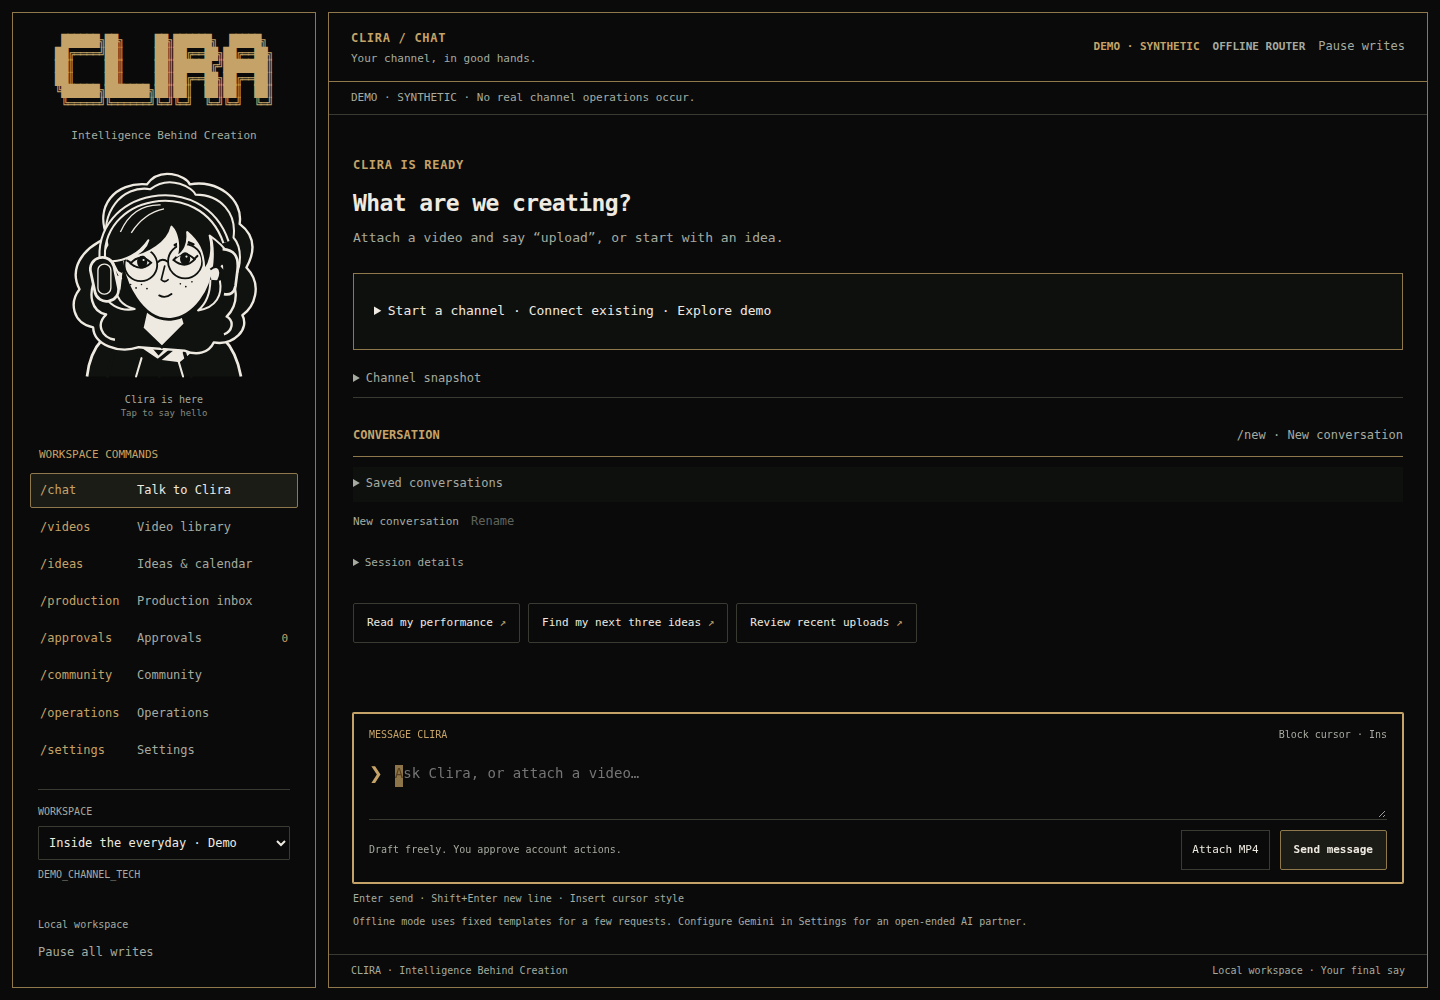
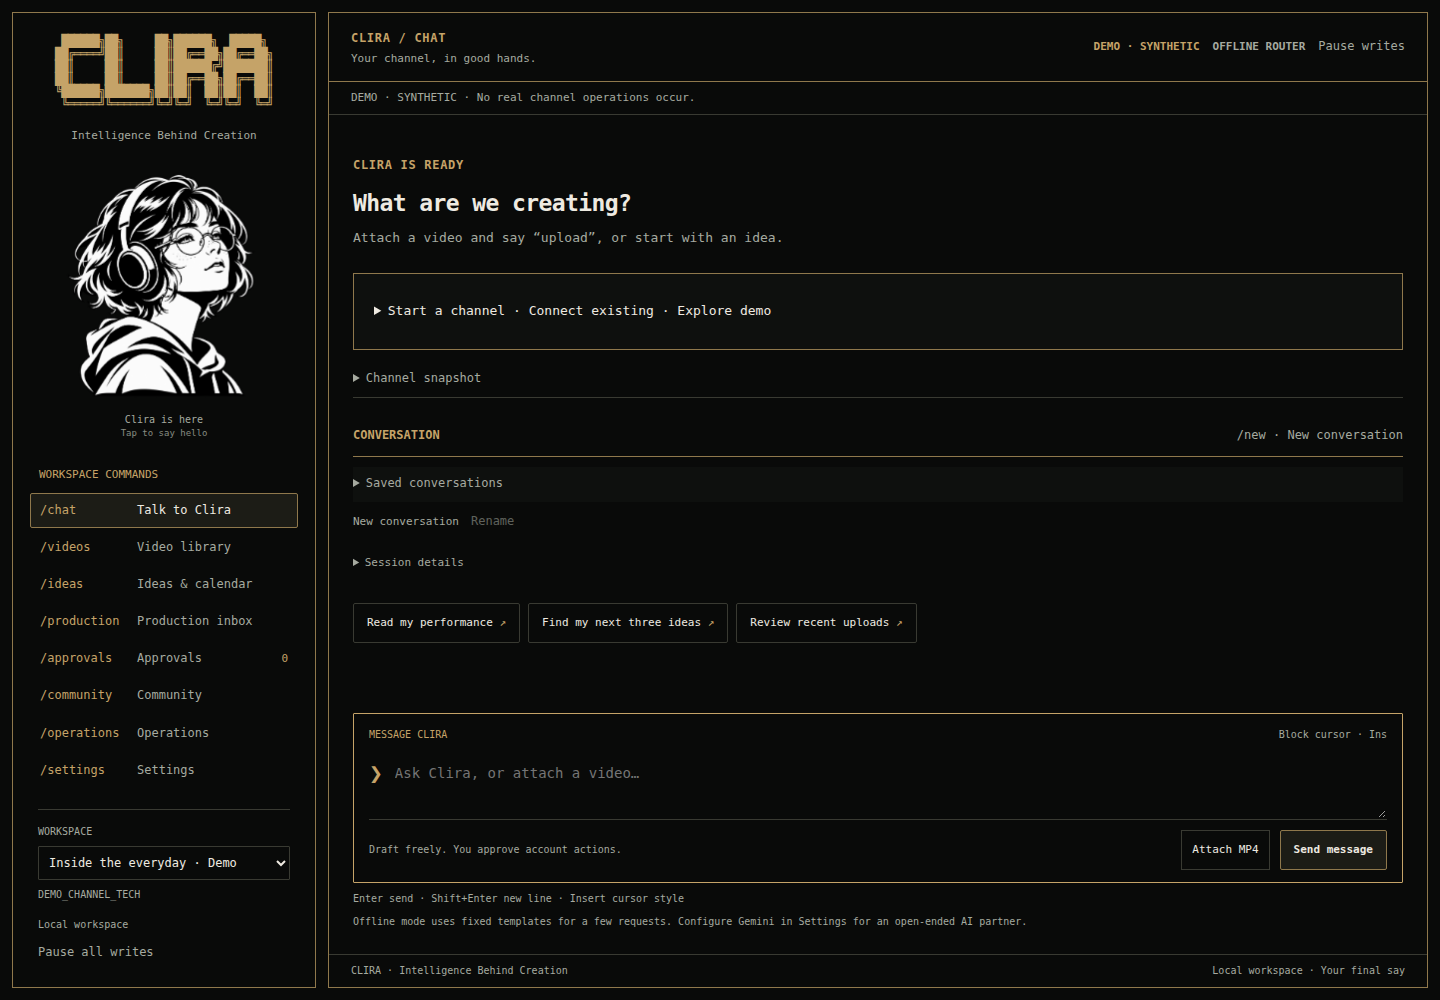
Refresh Clira branding and README with animated character demos
Use a borderless black-background character logo, refresh web icons and wordmark, and lead the README with current character and workspace GIFs. Preserve technical guidance, distinguish local presentation fixtures from offline app capture, and include static alternatives and reproducible media authoring.

diff --git a/clira/web/index.html b/clira/web/index.html
@@ -3,8 +3,8 @@
 <head>
   <meta charset="utf-8"><meta name="viewport" content="width=device-width,initial-scale=1">
   <meta name="theme-color" content="#090a09"><title>Clira · Intelligence Behind Creation</title>
-  <link rel="icon" type="image/png" href="/static/assets/clira-portrait.png">
-  <link rel="apple-touch-icon" href="/static/assets/clira-portrait.png">
+  <link rel="icon" type="image/png" href="/static/assets/clira-icon.png">
+  <link rel="apple-touch-icon" href="/static/assets/clira-logo-black.png">
   <link rel="stylesheet" href="/static/style.css"><link rel="stylesheet" href="/static/character.css"><script src="/static/character.js" defer></script><script src="/static/app.js" defer></script>
 </head>
 <body>

diff --git a/scripts/make_character_readme_media.py b/scripts/make_character_readme_media.py
@@ -1,0 +1,146 @@
+"""Capture the shipped local character controller and encode a compact README GIF."""
+
+import argparse
+import math
+import subprocess
+from pathlib import Path
+from urllib.parse import urlsplit
+
+from playwright.sync_api import sync_playwright
+
+ROOT = Path(__file__).resolve().parents[1]
+
+
+def main():
+    parser = argparse.ArgumentParser(description=__doc__)
+    parser.add_argument("--output", type=Path, default=ROOT / "docs/media/character")
+    args = parser.parse_args()
+    output = args.output.resolve()
+    output.mkdir(parents=True, exist_ok=True)
+    html = """<!doctype html><html><head><meta charset="utf-8">
+    <link rel="stylesheet" href="/static/character.css"><style>
+    :root{--gold:#c4a466;--muted:#b4b1a8;color-scheme:dark}
+    *{box-sizing:border-box}body{margin:0;background:#000;color:#eeeae1;font:12px monospace;
+    width:420px;height:510px;padding:25px 24px 15px;text-align:center;overflow:hidden}
+    h1{font-size:22px;font-weight:600;letter-spacing:8px;margin:0 0 9px;padding-left:8px;color:var(--gold)}
+    .tagline{font-size:10px;color:var(--muted);margin:0 0 16px}
+    #characterInteract{height:350px;max-width:350px;border:0;cursor:pointer}
+    #characterInteract:focus-visible{outline:0}.character-caption{margin:8px 0 0;min-height:18px}
+    #characterStatus{font-size:11px}#gesture{height:18px;color:var(--gold);margin:12px 0 6px;font-size:11px}
+    .foot{color:#817e76;font-size:9px;margin:0}#cursor{pointer-events:none;position:fixed;top:0;left:0;
+    width:9px;height:12px;background:#c4a466;clip-path:polygon(0 0,0 100%,32% 70%,65% 100%,85% 86%,52% 56%,100% 50%);
+    z-index:4;transform:translate(-30px,-30px)}#cursor.down{background:white}
+    </style><script defer src="/static/character.js"></script></head><body>
+    <h1>CLIRA</h1><p class="tagline">Intelligence Behind Creation</p>
+    <div id="cliraCharacter" class="character" data-motion="off" data-state="idle">
+    <button id="characterInteract" type="button" aria-label="Say hello to Clira" aria-describedby="characterStatus">
+    <span id="characterArtwork" aria-hidden="true"></span>
+    <span id="characterFallback"><img src="/static/assets/character-v2/neutral.webp" alt=""></span></button>
+    <div class="character-caption"><span id="characterStatus">Clira is here</span></div></div>
+    <p id="gesture">A quiet creative companion</p><p class="foot">Character preview · local presentation events</p>
+    <select id="characterMotion" hidden><option value="full">Full</option></select><span id="cursor"></span>
+    <script>document.addEventListener('pointermove',e=>{document.querySelector('#cursor').style.transform=
+    `translate(${e.clientX}px,${e.clientY}px)`});document.addEventListener('pointerdown',()=>document.querySelector('#cursor').classList.add('down'));
+    document.addEventListener('pointerup',()=>document.querySelector('#cursor').classList.remove('down'));</script>
+    </body></html>"""
+    with sync_playwright() as p:
+        browser = p.chromium.launch()
+        context = browser.new_context(
+            viewport={"width": 420, "height": 510},
+            reduced_motion="no-preference",
+            record_video_dir=str(output / "capture"),
+            record_video_size={"width": 420, "height": 510},
+        )
+        page = context.new_page()
+        errors = []
+        page.on("pageerror", lambda error: errors.append(str(error)))
+
+        def route_local(route):
+            path = urlsplit(route.request.url).path
+            if path == "/":
+                route.fulfill(body=html, content_type="text/html")
+                return
+            if not path.startswith("/static/"):
+                route.abort()
+                return
+            source = (ROOT / "clira/web" / path.removeprefix("/static/")).resolve()
+            if not source.is_relative_to(ROOT / "clira/web") or not source.is_file():
+                route.abort()
+                return
+            route.fulfill(path=str(source))
+
+        page.route("**/*", route_local)
+        page.goto("http://clira-media.test/")
+        page.wait_for_function("document.querySelector('#cliraCharacter').dataset.ready==='true'")
+        button = page.locator("#characterInteract")
+
+        def caption(text):
+            page.locator("#gesture").evaluate("(n,text)=>n.textContent=text", text)
+
+        page.wait_for_timeout(900)
+        caption("Hover → quietly curious")
+        button.hover()
+        page.wait_for_function("cliraCharacter.expression==='curious'")
+        page.wait_for_timeout(1000)
+        caption("One click → a little smile")
+        button.click()
+        page.wait_for_function("cliraCharacter.expression==='happy'")
+        page.wait_for_timeout(1500)
+        caption("Double click → quiet delight")
+        button.dblclick(delay=75)
+        page.wait_for_function("cliraCharacter.expression==='celebrating'")
+        page.wait_for_timeout(1850)
+        caption("Circle the pointer → a little dizzy")
+        rect = button.bounding_box()
+        for i in range(49):
+            angle = i * 2 * math.pi / 48
+            page.mouse.move(
+                rect["x"] + rect["width"] / 2 + 114 * math.cos(angle),
+                rect["y"] + rect["height"] / 2 + 114 * math.sin(angle),
+            )
+        page.wait_for_function("cliraCharacter.expression==='dizzy'")
+        page.wait_for_timeout(1850)
+        page.mouse.move(415, 508)
+        caption("A video attached → interest")
+        page.evaluate("cliraCharacter.emit('attached')")
+        page.wait_for_function("cliraCharacter.expression==='surprised'")
+        page.wait_for_timeout(1700)
+        caption("A chat request → thinking")
+        page.evaluate("cliraCharacter.emit('request:start',{id:'readme-preview',kind:'thinking'})")
+        page.wait_for_function("cliraCharacter.expression==='thinking'")
+        page.wait_for_timeout(2100)
+        caption("An error → concern, not false success")
+        page.evaluate("cliraCharacter.emit('request:end',{id:'readme-preview'});cliraCharacter.emit('error')")
+        page.wait_for_function("cliraCharacter.expression==='concerned'")
+        page.wait_for_timeout(1700)
+        caption("Back to her calm self")
+        page.evaluate("cliraCharacter.emit('context')")
+        page.wait_for_function("cliraCharacter.expression==='neutral'")
+        page.wait_for_timeout(1200)
+        page.screenshot(path=str(output / "character-poster.png"))
+        assert not errors, errors
+        video = page.video
+        context.close()
+        video.save_as(str(output / "clira-character.webm"))
+        browser.close()
+    subprocess.run(
+        [
+            "ffmpeg",
+            "-v",
+            "error",
+            "-i",
+            str(output / "clira-character.webm"),
+            "-filter_complex",
+            "fps=8,scale=360:-1:flags=lanczos,split[a][b];[a]palettegen=max_colors=48:stats_mode=full[p];[b][p]paletteuse=dither=none:diff_mode=rectangle",
+            "-loop",
+            "0",
+            "-y",
+            str(output / "clira-character.gif"),
+        ],
+        check=True,
+    )
+    print(output / "clira-character.gif")
+
+
+if __name__ == "__main__":
+    main()

diff --git a/README.md b/README.md
@@ -1,9 +1,9 @@
 <p align="center">
-  <img src="clira/web/assets/clira-portrait.png" alt="Clira — glasses, headphones, and a thoughtful creative partner" width="180">
+  <img src="clira/web/assets/clira-logo-black.png" alt="Clira — borderless monochrome character logo on black" width="140">
 </p>
 
 <p align="center">
-  <img src="docs/media/clira-banner.svg" alt="Clira — Storytelling meets strategic wisdom" width="100%">
+  <img src="docs/media/clira-banner.svg" alt="CLIRA — Intelligence Behind Creation" width="600">
 </p>
 
 <p align="center">
@@ -13,7 +13,7 @@
 </p>
 
 <p align="center">
-  <a href="https://github.com/Gurtejhundal/Clira/releases/tag/v0.1.0"><img src="https://img.shields.io/badge/preview-v0.1.0-a18b4e?style=flat-square" alt="Preview v0.1.0"></a>
+  <a href="docs/VERIFICATION_V1_RC.md"><img src="https://img.shields.io/badge/candidate-1.0.0rc1-c4a466?style=flat-square" alt="Local candidate 1.0.0rc1; not a stable release"></a>
   <img src="https://img.shields.io/badge/Python-3.12%2B-617851?style=flat-square" alt="Python 3.12 or later">
   <a href="https://github.com/Gurtejhundal/Clira/actions/workflows/release.yml"><img src="https://github.com/Gurtejhundal/Clira/actions/workflows/release.yml/badge.svg" alt="Verify and release"></a>
   <img src="https://img.shields.io/badge/Local_first-SQLite-303a2c?style=flat-square" alt="Local first with SQLite">
@@ -23,13 +23,45 @@
   <a href="#run">Get started</a> ·
   <a href="#see-clira-in-action">Watch the demos</a> ·
   <a href="docs/SETUP.md">Connect YouTube</a> ·
-  <a href="https://github.com/Gurtejhundal/Clira/releases/tag/v0.1.0">Download v0.1.0</a> ·
+  <a href="docs/LIVE_CHARACTER.md">Meet Clira</a> ·
   <a href="docs/PRODUCT_ANALYSIS.md">Product & architecture</a>
 </p>
 
-> **First public MVP preview.** Explore immediately with synthetic demo data and a limited offline
-> command router. Real AI needs your configured Gemini account; real channel operations need Google
-> OAuth and owner approval. New upload automation is tested with simulations; rendering stays external.
+> **Local release candidate.** Explore with synthetic demo data. Open-ended AI needs your Gemini
+> configuration; YouTube operations need OAuth and exact owner approval. Stable v1.0.0 is not released.
+
+## Meet Clira
+
+A quiet creative partner with a little personality. The original portrait comes alive through eight
+restrained expressions, natural blinks, subtle gaze and tiny head movements.
+
+<p align="center">
+  <img src="docs/media/character/clira-character.gif" width="360" alt="Clira character animation: hover makes her curious, a single click brings a small smile, double-click brings delight, circling the pointer makes her dizzy, chat brings a thinking expression, and errors bring concern.">
+</p>
+
+<p align="center">
+  <strong>Hover to catch her attention. Click to say hello.</strong><br>
+  Double-click for delight. Circle the pointer for a little dizziness.<br>
+  <a href="docs/media/character/character-poster.png">Static portrait</a> ·
+  <a href="docs/LIVE_CHARACTER.md">Expressions & controls</a> ·
+  <a href="clira/web/assets/clira-logo-black.png">Black-background logo</a> ·
+  <a href="clira/web/assets/clira-logo.png">Transparent alternative</a>
+</p>
+
+The GIF runs the shipped character controller with local presentation events. It is a character
+preview, not an account operation. In the website, real chat, attachment, preview, review and error
+states drive the same reactions. Touch and keyboard work too. **Full / Reduced / Off** motion settings
+respect the operating system's reduced-motion preference. The terminal keeps its Braille portrait.
+
+## See Clira in action
+
+<p align="center">
+  <img src="docs/media/character/clira-workspace.gif" width="960" alt="Recorded Clira website: the detailed character reacts to hover, clicks and circular pointer movement, then a real offline demo chat shows synthetic latest uploads.">
+</p>
+
+A continuous browser recording of the current website, using the actual offline demo backend.
+The channel and replies are synthetic; no Google model call or YouTube write is shown.
+[Static workspace](docs/media/web/terminal-workspace.png) · [Capture details](docs/media/README.md).
 
 ## Terminal-style web workspace
 
@@ -38,19 +70,14 @@ frames, a faithful monochrome portrait, CLIRA wordmark, monospace controls and a
 You can select and copy answers, use slash navigation, attach a video and review its upload in chat.
 The interactive terminal remains optional; it does not have to run alongside the website.
 
-Clira's image-backed SVG companion preserves the original detailed artwork with eight expressions.
-It blinks, follows nearby pointer movement, distinguishes single and
-double clicks, reacts to circular gestures, and responds to real chat/upload/review states.
-**Character motion: Full / Reduced / Off** is available in Settings and honors reduced motion.
-The original portrait assets are preserved. [Character behavior and event hooks](docs/LIVE_CHARACTER.md).
+The gold frames, centered identity and command navigation remain consistent across desktop and
+mobile. [Character behavior](docs/LIVE_CHARACTER.md) · [Logo and artwork provenance](docs/brand/CHARACTER_V2_ART.md).
 
 ```bash
 ./run.sh --mode live serve         # open http://127.0.0.1:8765 in your browser
 # Or explore without credentials:
 ./run.sh --mode demo serve
 ```
-
-![Clira terminal-style web workspace, showing synthetic demo data](docs/media/web/terminal-workspace.png)
 
 [Web workspace & keyboard controls](docs/WEB_WORKSPACE.md) · [Chat upload flow and limits](docs/CHAT_UPLOAD.md)
 
@@ -120,7 +147,10 @@ For the original scrolling layout: `CLIRA_TERMINAL_LAYOUT=inline uv run --locked
 [Desktop](docs/media/v1/clira-chat-1440.png) · [Mobile](docs/media/v1/clira-chat-390.png) ·
 [Local launch at 320px](docs/media/v1/clira-launch-320.png) · [Terminal capture](docs/media/v1/Clira-terminal-rc.txt)
 
-## v0.1.0 historical preview videos
+<details>
+<summary>Earlier v0.1.0 tours and CLI walkthrough</summary>
+
+### v0.1.0 historical preview videos
 
 <p align="center">
   <img src="docs/media/clira-preview.gif" width="800" alt="Animated Clira demo: desktop performance workspace, mobile channel conversation, and completed private-upload simulation with a durable receipt">
@@ -134,6 +164,8 @@ For the original scrolling layout: `CLIRA_TERMINAL_LAYOUT=inline uv run --locked
 The product tour uses real captured **synthetic-demo screens** with a guided pan/scroll presentation.
 The CLI walkthrough uses actual command-output excerpts. Both are silent with on-screen explanations.
 [Transcript, original captures and media details →](docs/media/README.md)
+
+</details>
 
 ## A creator workflow, held together
 
@@ -289,12 +321,13 @@ See [verification evidence](docs/VERIFICATION.md) and [the product analysis](doc
 
 ## Limits and remaining work
 
-The live-channel MVP gate is **not yet verified**. No OAuth client or Gemini key was configured in
-the inspected environment. Live thumbnail/caption acceptance and playback remain unverified. Retention/cohort diagnostics, external-renderer
+An owner-authorized authenticated read and private demo upload are recorded in the verification
+notes. Full production readiness is not established: the new chat upload path has simulation coverage,
+and live model quality plus thumbnail/caption acceptance and playback remain unverified. Retention/cohort diagnostics, external-renderer
 execution, automatic fact verification and hosted/team access are not implemented. Script evidence
 links remain unverified; public search results are examples, not trend proof. Semantic duplicate
 detection currently uses normalized title similarity, not embeddings. UI reads are capped to recent
 items; complete-history pagination is a future improvement. Nothing in this release guarantees
 growth, licensing clearance, or replacement of human creative judgment.
 
-The original 21-file build pack is preserved under `mds/Clira_Agent_Architecture_Build_Pack/Clira/`.
+The [original 21-file build pack](mds/Clira_Agent_Architecture_Build_Pack/Clira/) is preserved in the repository.

diff --git a/docs/brand/LOGO_AND_README_MEDIA.md b/docs/brand/LOGO_AND_README_MEDIA.md
@@ -1,0 +1,60 @@
+# Borderless logo and animated README
+
+The logo retains Clira's approved character identity: short irregular hair, fine round glasses,
+large headphones and a hoodie. No enclosing border, badge or decorative circle is added.
+
+| Asset | Format and dimensions | Use |
+| --- | --- | --- |
+| `clira/web/assets/clira-logo.png` | 512 × 512 RGBA PNG | Optional transparent logo download |
+| `clira/web/assets/clira-logo-black.png` | 512 × 512 RGB PNG | Default borderless logo on solid black; README and touch icon |
+| `clira/web/assets/clira-icon.png` | 96 × 96 RGB PNG | Small browser favicon |
+| `docs/media/clira-banner.svg` | 1200 × 230 SVG | Borderless gold wordmark and current tagline |
+| `docs/media/character/clira-character.gif` | 360 × 437, 133 frames, ~16.6 seconds | Character reactions, ~2.84 MB |
+| `docs/media/character/clira-workspace.gif` | 960 × 675, 104 frames, 10.4 seconds | Actual offline website recording, ~2.70 MB |
+| `docs/media/character/character-poster.png` | 420 × 510 PNG | Static alternative to the character GIF |
+
+The transparent alternative is a high-quality Lanczos export of the canonical V2 neutral texture.
+The default black-background logo was made with built-in image generation, inspected, then exported
+at 512 px. The small browser icon is a 96 px export of that black-background logo. The original approved portrait and character textures
+are unchanged. PNG masters remain in the task workspace under `outputs/Clira-readme/logo/`.
+
+## Black-background variant prompt
+
+Use case: identity-preserve / logo-brand. Edit target: the supplied Clira neutral portrait.
+Create a square production-ready Clira logo variant. Change ONLY the transparent background to
+perfectly flat solid black (#000000), and remove any stray background edge pixels. Preserve the
+character EXACTLY: same face, pose, proportions, detailed black and white linework, naturally irregular
+short wavy hair, fine round glasses, large headphones, freckles, hoodie and silhouette. Center the
+existing entire portrait with generous safe margin on all sides, so hair and shoulders do not clip.
+No rounded-square frame, no border, no circles, no badge, no text, no new ornament, no gold/neon,
+no stylistic redesign. It must look like the existing Clira character on pure black, not a new character.
+Sharp monochrome anime brand mark, suitable for GitHub and web application icon.
+
+## Animation provenance
+
+The character GIF records the **shipped** `character.js`, `character.css` and image-backed SVG in a
+small isolated presentation page. Hover, clicks, double-clicks and circular-pointer movement are real
+browser inputs. Attachment/thinking/error samples feed the existing local presentation event API;
+they do not claim a model response, upload or verified account outcome. The caption says so.
+The cursor overlay only makes those real pointer inputs visible in the capture.
+
+The workspace GIF is converted from the continuous real-browser recording made by
+`tests/browser_character.py`, using Clira's actual offline demo backend. It shows synthetic channel
+content and local character reactions. No real Google model request or YouTube mutation was made.
+
+GIFs use finite 48/128-color palettes, rectangle differencing and 8/10 fps rather than embedding
+multi-megabyte video frames at full desktop resolution. An initial 6.3 MB character export was reduced
+to ~2.84 MB while retaining all expressions, linework and captions. A static alternative is linked
+beside the animation. GIF playback is independent of the website's motion setting; Full/Reduced/Off
+controls apply to the application character.
+
+## Rebuild
+
+```bash
+uv run --locked --extra dev python scripts/make_character_readme_media.py --output /absolute/output
+```
+
+This requires Playwright Chromium and ffmpeg, and never starts an agent or calls a provider API.
+The script routes every browser request to local project files; missing routes fail closed.
+Generate the workspace recording with `tests/browser_character.py`, then encode its WebM with
+ffmpeg at 10 fps / 960 px and a 128-color palette. New clips should retain the explicit demo label.

diff --git a/docs/media/README.md b/docs/media/README.md
@@ -1,5 +1,23 @@
 # Demo media
 
+## Current character and website
+
+- [`character/clira-character.gif`](character/clira-character.gif): the faithful character reacting
+  to real browser hover, click, double-click and circular-pointer inputs. Thinking/attachment/error
+  examples use local presentation events. This is not an account operation.
+- [`character/clira-workspace.gif`](character/clira-workspace.gif): continuous actual website capture
+  with the offline synthetic demo backend, including a real chat request to that offline backend.
+- [`character/character-poster.png`](character/character-poster.png): static character alternative.
+- [`web/terminal-workspace.png`](web/terminal-workspace.png): updated website with the faithful portrait.
+- [`../../clira/web/assets/clira-logo-black.png`](../../clira/web/assets/clira-logo-black.png): default borderless logo on black.
+  The transparent alternative and small browser icon are alongside it.
+
+[Exact dimensions, generation prompt, file sizes and capture provenance](../brand/LOGO_AND_README_MEDIA.md).
+No account API or configured model calls were used for these captures. Built-in image generation
+was used for the black-background logo variant.
+
+## Historical v0.1.0 media
+
 These assets are captured from, or generated around, Clira's real local **synthetic demo**.
 No actual Google account, channel statistics, paid model requests, public replies or uploads are shown.
 

diff --git a/CHANGELOG.md b/CHANGELOG.md
@@ -2,6 +2,10 @@
 
 ## 1.0.0rc1 · unreleased local candidate
 
+- Refresh the README around the faithful live character, with real reaction and workspace GIFs,
+  transparent and black-background borderless logos, a small favicon and the current tagline.
+  Retain existing setup/operation documentation and document media provenance and rebuild steps.
+
 - Replace the simplified live-character drawing with faithful portrait textures, eight restrained
   expressions and a dedicated blink. Clip facial changes over a shared silhouette, with subtle head,
   breathing and iris motion. Keep the existing event controller, motion controls and agent backend.
